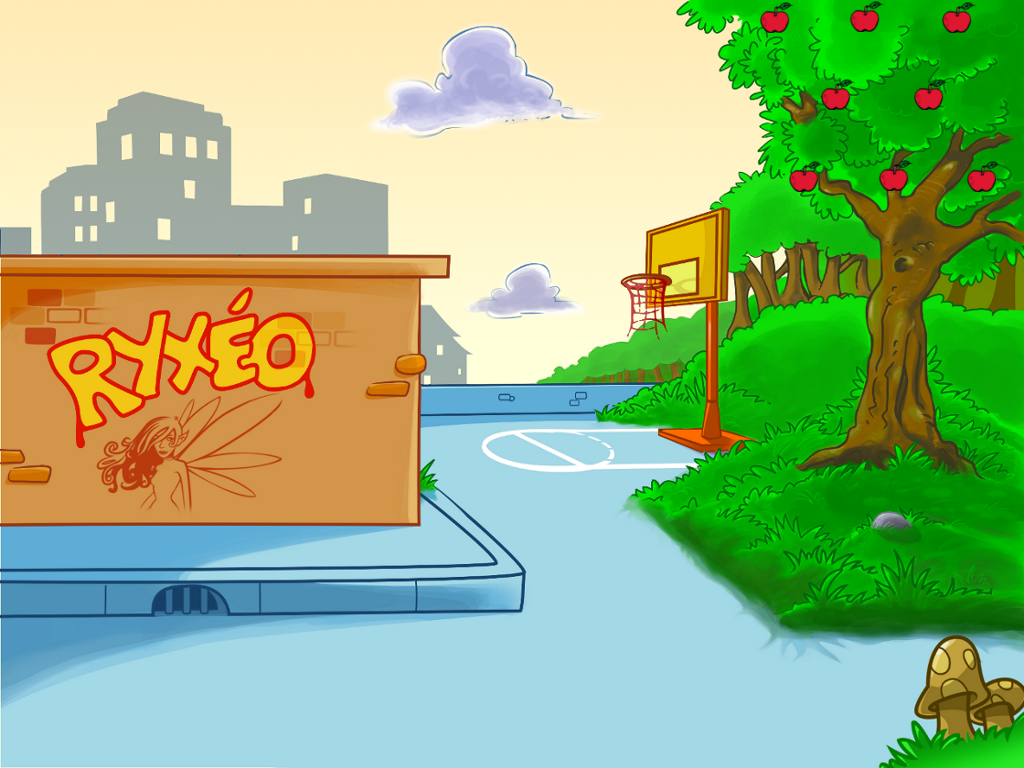
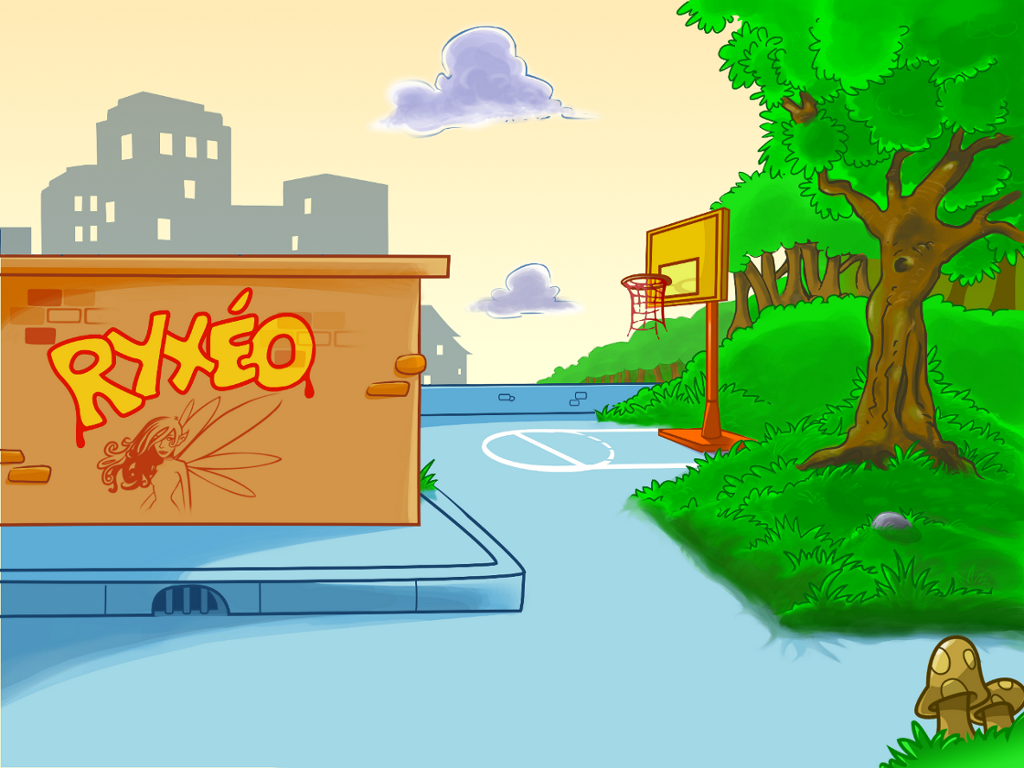
Ajout de la possibilité d'image sur les boutonsPolygone

diff --git a/interface.cpp b/interface.cpp
@@ -46,49 +46,20 @@ interface::interface(QWidget *parent)
         connect(btnPoly4, SIGNAL(sortie()), this, SLOT(close()));
         dessin->addItem(btnPoly4);
         
-    //for (int i=2;i<10;i++) {
-        QPoint origine(870,110);
+        QPoint origine(870,70);
         int R=90;
         int nb=8;
+        float deformation=0.8;
     for (int i=0;i<nb;i++) {
         boutonsPolygone* btnPoly5 = new boutonsPolygone("tableM",i+2);
         //btnPoly5->deplace(700+30*i,170 -(((10*i)%3))*80);
-        btnPoly5->deplace(origine.x()+R*cos((2*3.14/nb)*i), origine.y()+R*sin((2*3.14/nb)*i));
-        btnPoly5->retaille(30,20);
+        btnPoly5->deplace(origine.x()+R*cos((2*3.14/nb)*i), origine.y()+deformation*R*sin((2*3.14/nb)*i));
+        btnPoly5->retaille(40,34);
         btnPoly5->QGraphicsItem::setToolTip("table x"+QString::number(i+2));
+        QPixmap im("./images/pomme.png");
+        btnPoly5->setImage(im);
         dessin->addItem(btnPoly5);
-    }
-
-//    boutonsPolygone* btnPoly5b = new boutonsPolygone("tableM",3);
-//        btnPoly5b->deplace(855,25);
-//        btnPoly5b->retaille(30,20);
-//        btnPoly5b->QGraphicsItem::setToolTip("table x3");
-//        dessin->addItem(btnPoly5b);
-//
-//    boutonsPolygone* btnPoly5c = new boutonsPolygone("tableM",4);
-//        btnPoly5c->deplace(950,30);
-//        btnPoly5c->retaille(30,20);
-//        btnPoly5c->QGraphicsItem::setToolTip("table x4");
-//        dessin->addItem(btnPoly5c);
-//
-//    boutonsPolygone* btnPoly5c = new boutonsPolygone("tableM",4);
-//        btnPoly5c->deplace(950,30);
-//        btnPoly5c->retaille(30,20);
-//        btnPoly5c->QGraphicsItem::setToolTip("table x4");
-//        dessin->addItem(btnPoly5c);
-//
-//    boutonsPolygone* btnPoly5c = new boutonsPolygone("tableM",4);
-//        btnPoly5c->deplace(950,30);
-//        btnPoly5c->retaille(30,20);
-//        btnPoly5c->QGraphicsItem::setToolTip("table x4");
-//        dessin->addItem(btnPoly5c);
-//
-//    boutonsPolygone* btnPoly5c = new boutonsPolygone("tableM",4);
-//        btnPoly5c->deplace(950,30);
-//        btnPoly5c->retaille(30,20);
-//        btnPoly5c->QGraphicsItem::setToolTip("table x4");
-//        dessin->addItem(btnPoly5c);
-
+        }
 
     }
 

diff --git a/boutonspolygone.cpp b/boutonspolygone.cpp
@@ -5,13 +5,14 @@
 
 boutonsPolygone::boutonsPolygone(QString operation, int val)
         : QGraphicsItem()
+        //:QPushButton() 
 {
     m_base = new QPoint(0,0);
     m_taille = new QSize(100,100);
     m_val = val;
     m_angle = 0;
     m_zoom = 0;
-    m_image = new QIcon("./images/pomme.png");
+    m_image = new QPixmap("");
     m_action = new QString(operation);
     this->QGraphicsItem::setCursor(Qt::PointingHandCursor);
     this->setIcon(*m_image);
@@ -26,11 +27,12 @@ QRectF boutonsPolygone::boundingRect() const
 void boutonsPolygone::paint(QPainter *painter, const QStyleOptionGraphicsItem *option,QWidget *widget)
 {
     //changer laquelle des 2 lignes ci-dessous est commentée selon qu'on veut que les contours du bouton soient visibles ou pas
-    //painter->setPen(Qt::NoPen);
-    painter->setPen(Qt::black);
+    painter->setPen(Qt::NoPen);
+    //painter->setPen(Qt::black);
     painter->setBrush(Qt::NoBrush);
     QRect rect(m_base->x(), m_base->y(), m_taille->width(), m_taille->height());
     painter->drawRect(rect.adjusted(0, 0, -1, -1));
+    painter->drawPixmap(rect, *m_image);
 }
 
 void boutonsPolygone::mousePressEvent(QGraphicsSceneMouseEvent* e)

diff --git a/boutonspolygone.h b/boutonspolygone.h
@@ -18,7 +18,6 @@ public:
     QRectF boundingRect() const;
     void paint(QPainter *painter, const QStyleOptionGraphicsItem *option,QWidget *widget);
 
-
 protected:
     void mousePressEvent(QGraphicsSceneMouseEvent*);
 
@@ -32,7 +31,7 @@ private:
     QSize* m_taille;
     QString* m_action;
     int m_val;
-    QIcon* m_image;//2
+    QPixmap* m_image;
 };
 
 #endif // BOUTONSPOLYGONE_H
